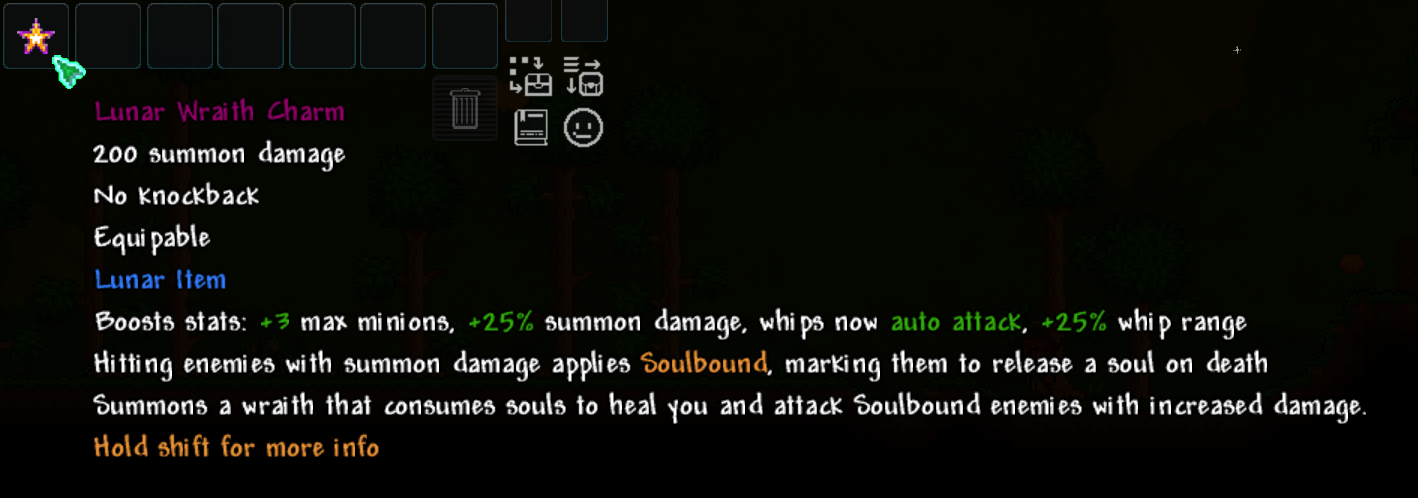
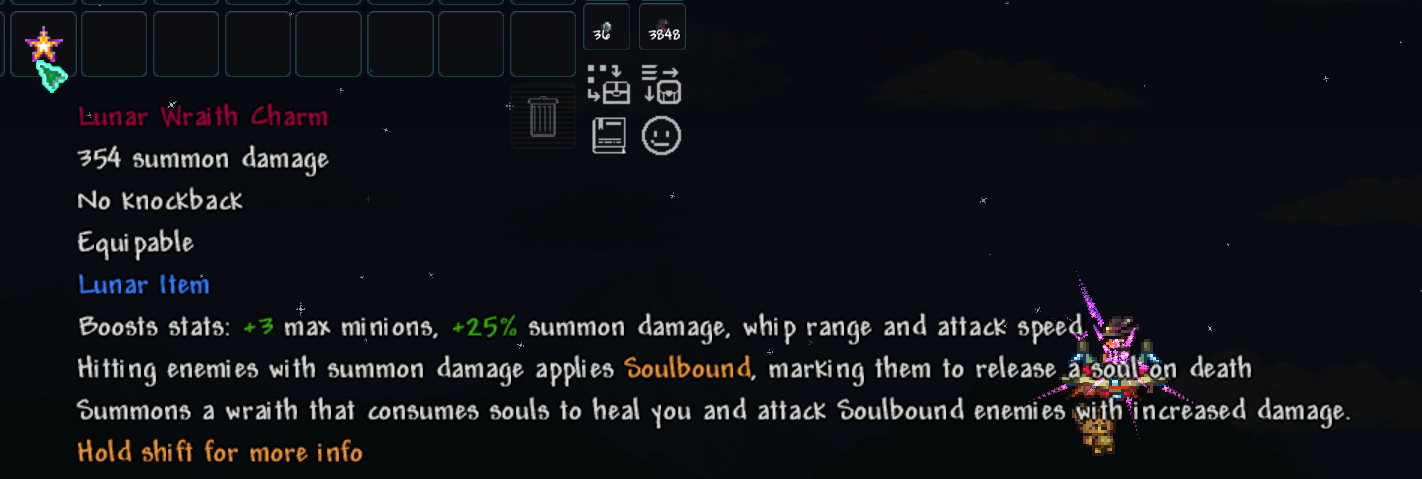
Last update

diff --git a/PostLunarGlobalNPC.cs b/PostLunarGlobalNPC.cs
@@ -17,7 +17,7 @@ namespace PostLunarAcc
     {
         public bool toExplode, soulboundActive;
 
-        public int lastHitDamage, timesHit, debuffCooldown, cooldownTimer, coolDownLimit;
+        public int lastHitDamage, timesHit, debuffCooldown, cooldownTimer, coolDownLimit, sovereignHits;
 
         private float soulbouldRot;
 
@@ -30,7 +30,10 @@ namespace PostLunarAcc
         private Texture2D SoulBound => ModContent.Request<Texture2D>("PostLunarAcc/Assets/SoulBound", ReLogic.Content.AssetRequestMode.ImmediateLoad).Value;
 
         public override bool InstancePerEntity => true;
-
+        public override bool AppliesToEntity(NPC entity, bool lateInstantiation)
+        {
+            return entity.CanBeChasedBy();
+        }
         public override void UpdateLifeRegen(NPC npc, ref int damage)
         {
             if (toExplode && timesHit > 0)
@@ -54,6 +57,24 @@ namespace PostLunarAcc
             if (timesHit < 0)
                 timesHit = 0;
             base.UpdateLifeRegen(npc, ref damage);
+        }
+
+        public override void ModifyIncomingHit(NPC npc, ref NPC.HitModifiers modifiers)
+        {
+            if (sovereignHits > 5)
+                sovereignHits = 5;
+            if (sovereignHits > 0 && (modifiers.DamageType == DamageClass.Melee || modifiers.DamageType == DamageClass.MeleeNoSpeed))
+            {
+                float increase = (sovereignHits * 0.05f);
+                modifiers.FinalDamage += increase;
+                npc.defDefense = npc.defense - sovereignHits * 10;
+            }
+            base.ModifyIncomingHit(npc, ref modifiers);
+        }
+
+        public override void AI(NPC npc)
+        {
+            base.AI(npc);
         }
 
         public override void PostDraw(NPC npc, SpriteBatch spriteBatch, Vector2 screenPos, Color drawColor)
@@ -95,7 +116,7 @@ namespace PostLunarAcc
 
         public override void DrawEffects(NPC npc, ref Color drawColor)
         {
-            if (toExplode && !npc.friendly)
+            if (toExplode)
             {
                 Lighting.AddLight(npc.Center, Color.DarkRed.ToVector3() * 0.5f);
                 for (int i = 0; i < 3; i++)
@@ -107,8 +128,20 @@ namespace PostLunarAcc
                     dusty.noGravity = true;
                 }
             }
-            if (soulboundActive && !npc.friendly)
+            if (soulboundActive)
                 Lighting.AddLight(npc.Center, Color.FloralWhite.ToVector3() * 0.5f);
+            if (sovereignHits > 0)
+            {
+                Lighting.AddLight(npc.Center, Color.Gold.ToVector3() * 0.5f);
+                for (int i = 0; i < 1; i++)
+                {
+                    Dust dusty = Dust.NewDustDirect(npc.position, npc.width, npc.height, DustID.SolarFlare);
+                    dusty.velocity = Utils.RandomVector2(Main.rand, -6, 6);
+                    dusty.color = Color.Gold;
+                    dusty.scale = 1.1f;
+                    dusty.noGravity = true;
+                }
+            }
         }
 
         public override void OnKill(NPC npc)
@@ -125,7 +158,7 @@ namespace PostLunarAcc
                     instance.Write7BitEncodedInt(Player.whoAmI);
                     instance.Send();
                 }
-                if (Player != null && Player.GetModPlayer<RangerLunarModplayer>().active && toExplode && npc.CanBeChasedBy())
+                if (Player != null && Player.GetModPlayer<RangerLunarModplayer>().active && toExplode)
                 {
                     var instance = ModContent.GetInstance<PostLunarAcc>().GetPacket();
                     NPC.HitInfo explodeDamage = new()
@@ -136,7 +169,7 @@ namespace PostLunarAcc
                     };
                     foreach (NPC nearby in Main.ActiveNPCs)
                     {
-                        if (!nearby.friendly && nearby.whoAmI != npc.whoAmI && nearby.Distance(npc.Center) <= (npc.height + npc.width) * 2)
+                        if (nearby.CanBeChasedBy() && !nearby.friendly && nearby.whoAmI != npc.whoAmI && nearby.Distance(npc.Center) <= (npc.height + npc.width) * 2)
                         {
                             nearby.StrikeNPC(explodeDamage);
                             ExtensionMethods.CreateCombatText(nearby, Color.Red, explodeDamage.Damage.ToString("0"));
@@ -151,19 +184,27 @@ namespace PostLunarAcc
                     instance.Send();
                     toExplode = false;
                 }
+                if (sovereignHits > 0)
+                {
+                    var instance = ModContent.GetInstance<PostLunarAcc>().GetPacket();
+                    instance.Write((byte)PostLunarAcc.PacketType.SovereignClear);
+                    instance.Write7BitEncodedInt(npc.whoAmI);
+                    instance.Send();
+                    sovereignHits = 0;
+                }
                 return;
             }
             else
             {
                 Player Player = Main.player[npc.lastInteraction];
-                if (Player != null && Player.GetModPlayer<HelperWraithTracking>().soulbindingActive && soulboundActive && npc.CanBeChasedBy())
+                if (Player != null && Player.GetModPlayer<HelperWraithTracking>().soulbindingActive && soulboundActive)
                 {
                     if (Main.netMode != NetmodeID.MultiplayerClient)
                         Projectile.NewProjectileDirect(npc.GetSource_Death(), npc.position + npc.Size * Main.rand.NextFloat(), Vector2.UnitY * -2f, ModContent.ProjectileType<HelperWraithPellets>(), 0, 0, Player.whoAmI);
                     Player.GetModPlayer<HelperWraithTracking>().SoulboundNPCs.Remove(npc);
                     soulboundActive = false;
                 }
-                if (Player != null && toExplode && npc.CanBeChasedBy())
+                if (Player != null && toExplode)
                 {
                     NPC.HitInfo explodeDamage = new()
                     {
@@ -173,7 +214,7 @@ namespace PostLunarAcc
                     };
                     foreach (NPC nearby in Main.ActiveNPCs)
                     {
-                        if (!nearby.friendly && nearby.whoAmI != npc.whoAmI && nearby.Distance(npc.Center) <= (npc.height + npc.width) * 2)
+                        if (nearby.CanBeChasedBy() && !nearby.friendly && nearby.whoAmI != npc.whoAmI && nearby.Distance(npc.Center) <= (npc.height + npc.width) * 2)
                         {
                             nearby.StrikeNPC(explodeDamage);
                             ExtensionMethods.CreateCombatText(nearby, Color.Red, explodeDamage.Damage.ToString("0"));
@@ -188,6 +229,8 @@ namespace PostLunarAcc
                         Projectile.NewProjectileDirect(npc.GetSource_Death(), npc.Center + new Vector2(0, -64), Vector2.Zero, ProjectileID.DD2ExplosiveTrapT3Explosion, 0, 0, Player.whoAmI);
                     toExplode = false;
                 }
+                if (sovereignHits > 0)
+                    sovereignHits = 0;
                 return;
             }
         }

diff --git a/Items/Accessories/LunarSovereignFist.cs b/Items/Accessories/LunarSovereignFist.cs
@@ -1,0 +1,135 @@
+using Microsoft.Xna.Framework;
+using PostLunarAcc.Items.Ingredients;
+using PostLunarAcc.Rarity;
+using Terraria;
+using Terraria.ID;
+using Terraria.ModLoader;
+
+namespace PostLunarAcc.Items.Accessories
+{
+    public class LunarSovereign : ModPlayer
+    {
+        public bool isActive;
+
+        public Item Accessory = null;
+
+        public int explosionCooldown;
+
+        public override void ResetEffects()
+        {
+            isActive = false;
+            if (explosionCooldown > 0)
+                explosionCooldown--;
+        }
+
+        public override void OnHitNPCWithItem(Item item, NPC target, NPC.HitInfo hit, int damageDone)
+        {
+            if (isActive && (hit.DamageType == DamageClass.Melee || hit.DamageType == DamageClass.MeleeNoSpeed))
+            {
+                if (Main.netMode == NetmodeID.MultiplayerClient)
+                {
+                    var instance = ModContent.GetInstance<PostLunarAcc>().GetPacket();
+                    instance.Write((byte)PostLunarAcc.PacketType.SovereignAddServer);
+                    instance.Write7BitEncodedInt(target.whoAmI);
+                    instance.Write7BitEncodedInt(Player.whoAmI);
+                    instance.Send();
+                }
+                target.GetGlobalNPC<PostLunarGlobalNPC>().sovereignHits++;
+                int damage = (int)(damageDone * 0.75);
+                if (Main.myPlayer == Player.whoAmI && Accessory != null)
+                {
+                    Projectile.NewProjectile(Player.GetSource_Accessory(Accessory), target.Center, Vector2.Zero, ProjectileID.Volcano, 0, 0f, Player.whoAmI);
+                    foreach (NPC closeNPC in Main.ActiveNPCs)
+                    {
+                        if (!closeNPC.friendly && closeNPC.Center.Distance(Player.itemLocation) <= target.width * 1.5f)
+                        {
+                            NPC.HitInfo hitAttack = new()
+                            {
+                                Damage = damage,
+                                DamageType = DamageClass.Melee,
+                                Knockback = 0f
+                            };
+                            closeNPC.StrikeNPC(hitAttack);
+                            Player.addDPS(damage);
+                            if (Main.netMode != NetmodeID.SinglePlayer)
+                                NetMessage.SendStrikeNPC(closeNPC, hit);
+                        }
+                    }
+                }
+            }
+        }
+
+        public override void OnHitNPCWithProj(Projectile proj, NPC target, NPC.HitInfo hit, int damageDone)
+        {
+            if (isActive && (hit.DamageType == DamageClass.Melee || hit.DamageType == DamageClass.MeleeNoSpeed))
+            {
+                if (Main.netMode == NetmodeID.MultiplayerClient)
+                {
+                    var instance = ModContent.GetInstance<PostLunarAcc>().GetPacket();
+                    instance.Write((byte)PostLunarAcc.PacketType.SovereignAddServer);
+                    instance.Write7BitEncodedInt(target.whoAmI);
+                    instance.Write7BitEncodedInt(Player.whoAmI);
+                    instance.Send();
+                }
+                target.GetGlobalNPC<PostLunarGlobalNPC>().sovereignHits++;
+                int damage = (int)(damageDone * 0.75);
+                if (Main.myPlayer == Player.whoAmI && Accessory != null)
+                {
+                    Projectile.NewProjectile(Player.GetSource_Accessory(Accessory), target.Center, Vector2.Zero, ProjectileID.Volcano, 0, 0f, Player.whoAmI);
+                    foreach (NPC closeNPC in Main.ActiveNPCs)
+                    {
+                        if (!closeNPC.friendly && closeNPC.Center.Distance(proj.Center) <= target.width * 1.5f)
+                        {
+                            NPC.HitInfo hitAttack = new()
+                            {
+                                Damage = damage,
+                                DamageType = DamageClass.Melee,
+                                Knockback = 0f
+                            };
+                            closeNPC.StrikeNPC(hitAttack);
+                            Player.addDPS(damage);                            
+                            if (Main.netMode != NetmodeID.SinglePlayer)
+                                NetMessage.SendStrikeNPC(closeNPC, hit);
+                        }
+                    }
+                }
+            }
+            base.OnHitNPCWithProj(proj, target, hit, damageDone);
+        }
+    }
+
+    internal class LunarSovereignFist : ModItem
+    {
+        public override void SetDefaults()
+        {
+            Item.width = 26;
+            Item.height = 26;
+            Item.rare = ModContent.RarityType<MoonFragmentRarity>();
+            Item.accessory = true;
+            Item.hasVanityEffects = true;
+            Item.value = Item.sellPrice(platinum: 2);
+        }
+
+        public override void UpdateAccessory(Player player, bool hideVisual)
+        {
+            player.GetDamage(DamageClass.Melee) += 0.25f;
+            player.GetDamage(DamageClass.MeleeNoSpeed) += 0.25f;
+            player.GetAttackSpeed(DamageClass.Melee) += 0.25f;
+            player.GetAttackSpeed(DamageClass.MeleeNoSpeed) += 0.25f;
+            player.GetCritChance(DamageClass.Melee) += 20;
+            player.GetCritChance(DamageClass.MeleeNoSpeed) += 20;
+            player.Sovereign().isActive = true;
+            player.Sovereign().Accessory = Item;
+            base.UpdateAccessory(player, hideVisual);
+        }
+
+        public override void AddRecipes()
+        {
+            CreateRecipe()
+                .AddIngredient(ItemID.FireGauntlet)
+                .AddIngredient(ModContent.ItemType<MoonFragment>(), 16)
+                .AddTile(TileID.LunarCraftingStation)
+                .Register();
+        }
+    }
+}

diff --git a/PostLunarAcc.cs b/PostLunarAcc.cs
@@ -82,7 +82,13 @@ namespace PostLunarAcc
 
             SoulboundActivationServer,
 
-            SoulboundActivationPlayers
+            SoulboundActivationPlayers,
+
+            SovereignAddServer,
+
+            SovereignAddClient,
+
+            SovereignClear
         }
 
         public override void HandlePacket(BinaryReader reader, int whoAmI)
@@ -186,6 +192,45 @@ namespace PostLunarAcc
                             if (Main.LocalPlayer.TryGetModPlayer(out HelperWraithTracking result))
                                 result.SoulboundNPCs.Remove(target);
                             target.GetGlobalNPC<PostLunarGlobalNPC>().soulboundActive = false;
+                        }
+                        break;
+                    }
+                case (byte)PacketType.SovereignAddServer:
+                    {
+                        int targetIndex = reader.Read7BitEncodedInt();
+                        int ignoreClient = reader.Read7BitEncodedInt();
+                        if (Main.npc.IndexInRange(targetIndex))
+                        {
+                            NPC target = Main.npc[targetIndex];
+
+                            target.GetGlobalNPC<PostLunarGlobalNPC>().sovereignHits++;
+                            if (Main.dedServ)
+                            {
+                                var instance = ModContent.GetInstance<PostLunarAcc>().GetPacket();
+                                instance.Write((byte)PacketType.SovereignAddClient);
+                                instance.Write7BitEncodedInt(target.whoAmI);
+                                instance.Send(ignoreClient: ignoreClient);
+                            }
+                        }
+                        break;
+                    }
+                case (byte)PacketType.SovereignAddClient:
+                    {
+                        int targetIndex = reader.Read7BitEncodedInt();
+                        if (Main.npc.IndexInRange(targetIndex))
+                        {
+                            NPC target = Main.npc[targetIndex];
+                            target.GetGlobalNPC<PostLunarGlobalNPC>().sovereignHits++;
+                        }
+                        break;
+                    }
+                case (byte)PacketType.SovereignClear:
+                    {
+                        int targetIndex = reader.Read7BitEncodedInt();
+                        if (Main.npc.IndexInRange(targetIndex))
+                        {
+                            NPC target = Main.npc[targetIndex];
+                            target.GetGlobalNPC<PostLunarGlobalNPC>().sovereignHits = 0;
                         }
                         break;
                     }

diff --git a/Items/Accessories/RangedLunar.cs b/Items/Accessories/RangedLunar.cs
@@ -44,7 +44,7 @@ namespace PostLunarAcc.Items.Accessories
                 };
                 foreach (NPC closeNPC in Main.ActiveNPCs)
                 {
-                    if (!closeNPC.friendly && closeNPC.Center.Distance(proj.Center) <= target.width * 1.5f)
+                    if (closeNPC.CanBeChasedBy() && !closeNPC.friendly && closeNPC.Center.Distance(proj.Center) <= target.width * 1.5f)
                     {
                         closeNPC.StrikeNPC(hitAttack);
                         Color color = hit.Crit ? new Color(Color.Red.R, Color.Red.G + 45, Color.Red.B + 45) : Color.Red;

diff --git a/ExtensionMethods.cs b/ExtensionMethods.cs
@@ -1,5 +1,6 @@
 using Microsoft.Xna.Framework;
 using Microsoft.Xna.Framework.Graphics;
+using PostLunarAcc.Items.Accessories;
 using System;
 using System.Collections.Generic;
 using System.Linq;
@@ -79,6 +80,11 @@ namespace PostLunarAcc
                         Language.GetTextValue(text)
                     ).ToArray()), color);
             }
+        }
+
+        public static LunarSovereign Sovereign(this Player player)
+        {
+            return player.GetModPlayer<LunarSovereign>();
         }
 
         /// <summary>

diff --git a/Items/Accessories/SoulbindingAmulet.cs b/Items/Accessories/SoulbindingAmulet.cs
@@ -44,6 +44,7 @@ namespace PostLunarAcc.Items.Accessories
             player.GetModPlayer<HelperWraithTracking>().SoulboundItemInstance = Item;
             player.maxMinions += 3;
             player.GetDamage(DamageClass.Summon) += 0.25f;
+            player.GetDamage(DamageClass.SummonMeleeSpeed) += 0.25f;
             player.whipRangeMultiplier += 0.25f;
             player.GetAttackSpeed(DamageClass.SummonMeleeSpeed) += 0.25f;
             player.GetModPlayer<HelperWraithTracking>().soulbindingActive = true;

diff --git a/Projectiles/HelperWraith.cs b/Projectiles/HelperWraith.cs
@@ -284,10 +284,7 @@ namespace PostLunarAcc.Projectiles
             base.SetDefaults();
         }
 
-        public override bool? CanHitNPC(NPC target)
-        {
-            return Target != null && Target == target;
-        }
+        public override bool? CanHitNPC(NPC target) => Target != null && Target == target;
 
         public override void OnHitNPC(NPC target, NPC.HitInfo hit, int damageDone)
         {
